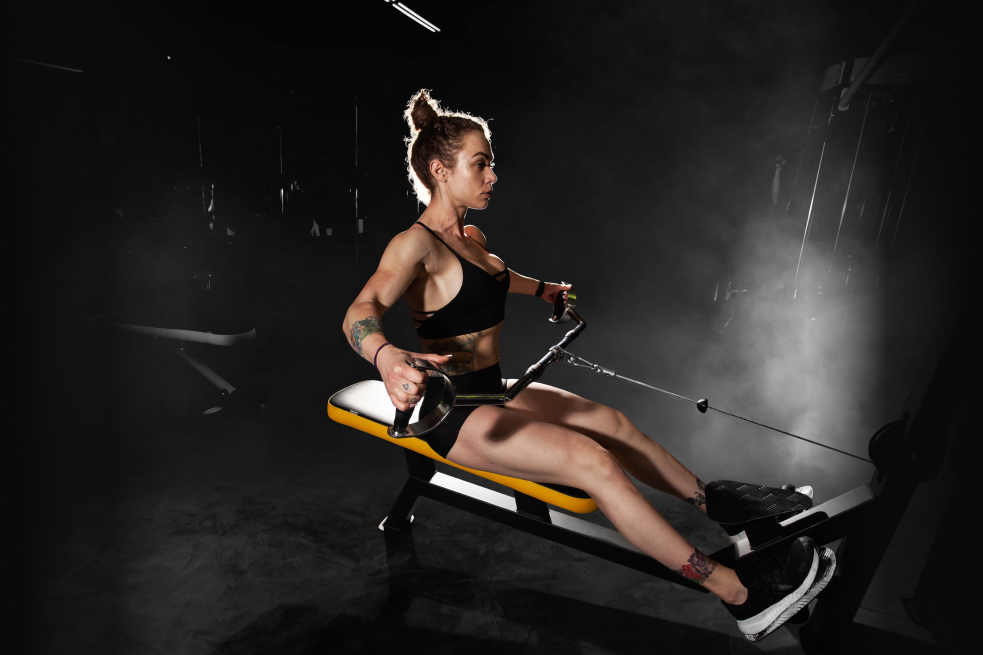
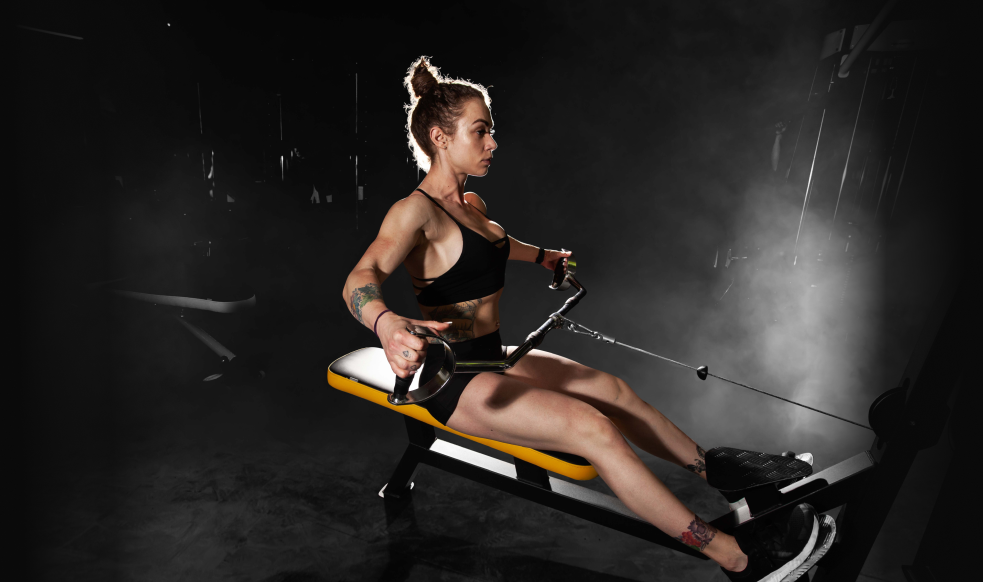
fix

diff --git a/womens-training.html b/womens-training.html
@@ -73,6 +73,7 @@
                     <p class="banner__title">the best version of yourself</p>
                     <p>Кроме того, мы разработаем вместе индивидуальные программы тренировок, которые будут сосредоточены на увеличении мышечной массы и уменьшении жировой массы, а не просто на потере веса. Такой подход особенно важен для женщин, поскольку композиция тела является более точным показателем здоровья и благополучия, чем масса тела.</p>
                     <div class="article__image">
+                        <p class="article__image-name section__name">The B.o.y. Fit</p>
                         <img src="img/article/home-3-1.jpg" alt="">
                     </div>
                     <p>Во время менопаузы многие женщины испытывают гормональные изменения, которые могут влиять на метаболизм, состав тела и общее состояние здоровья. Регулярная физическая активность может помочь смягчить эти негативные эффекты, улучшая сердечно-сосудистое здоровье, поддерживая плотность костей и снижая риск набора веса, а также помогая справляться с такими эмоциональными явлениями, как депрессия.</p>

diff --git a/workouts-more-50.html b/workouts-more-50.html
@@ -76,6 +76,7 @@
                         <br>Еще один важный аспект - снижение уровня тестостерона у мужчин и эстрогенной активности у женщин с возрастом. Физические упражнения, особенно тренировки с весом, могут помочь поддерживать стабильный уровень тестостерона, сохраняя мышечную массу, либидо и общее благополучие.
                     </p>
                     <div class="article__image">
+                        <p class="article__image-name section__name">The B.o.y. Fit</p>
                         <img src="img/article/home-2-1.jpg" alt="">
                     </div>
                     <p>Следуя индивидуальной программе, мы сможем достичь установленных целей в области фитнеса и здоровья. Я разработаю персонализированную программу тренировок, учитывая ваши индивидуальные потребности, существующие медицинские состояния и конкретные цели. Кроме того, я буду обеспечивать поддержку, мотивацию и контроль во время тренировок, снижая риск травм и обеспечивая правильное выполнение упражнений.</p>

diff --git a/css/style.css b/css/style.css
@@ -1190,9 +1190,19 @@ main.main{
     overflow: hidden;
     margin: 30px 0;
     width: 100%;
+    height: 582px;
+    border-radius: 12px;
+    background: #0A0A0A;
+    position: relative;
+}
+.article__image-name{
+    position: absolute;
+    left: 0;
+    right: 0;
+    bottom: 9px;
 }
 .article__image img{
-    width: 100%;
+    max-width: 100%;
 }
 @media (max-width: 999px) {
     .article{
